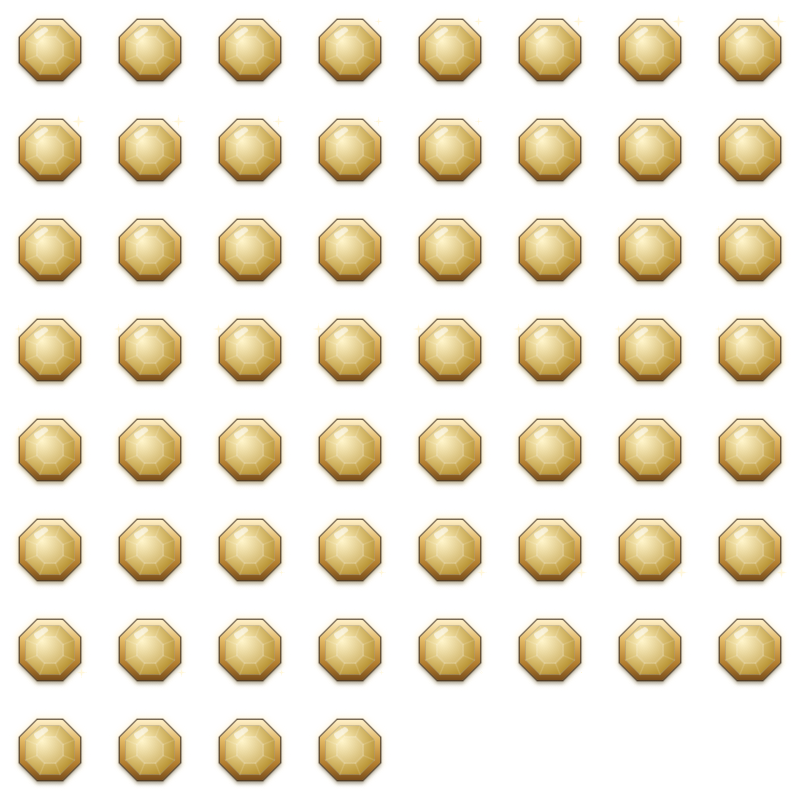
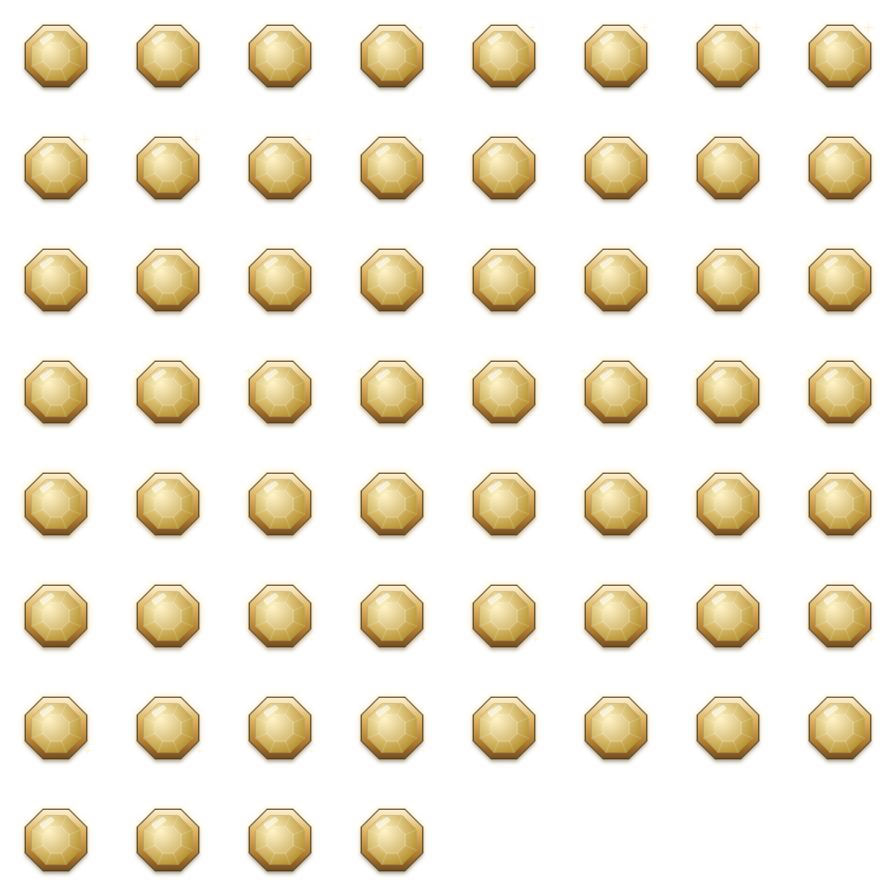
Rive state tracker: 8 px sheet padding, button-like tracker clicks, missing sheets are errors
- Sheets have 8 px of padding around every frame (was 2), so a far-off sigil's small mipmaps
  never mix in the next frame. Re-baked.
- Task tracker: a press dragged off a row or the header and let go elsewhere does nothing.
- RiveSprites: a missing manifest or sheet is an error, not a warning, so check-exe.ps1 fails a
  build that lost its sheets.
- CREDITS: the game ships the baked images only; "Animated with Rive".

Changed region(s): [[0.0, 0.0, 1.0, 1.0]]

diff --git a/scripts/README.md b/scripts/README.md
@@ -154,7 +154,8 @@ solved from the pair. The bake works on a copy of the sources taken when it star
 copy, so an edit made during a bake is neither captured nor marked as baked.
 
 A state's frames go into one PNG, `client/art/rive/<set>/<state>.png`: a grid of ceil(sqrt(frames))
-columns with 2 px of transparent padding around each frame. A new sheet gets a `.png.import`
+columns with 8 px of transparent padding around each frame, so the small mipmaps of a far-off
+sigil never mix in the next frame. A new sheet gets a `.png.import`
 (lossless, mipmaps, alpha border fixed). `client/art/rive/rive_sprites.json` describes the sheets
 and records the CLI's version and a hash of the sources:
 

diff --git a/CREDITS.md b/CREDITS.md
@@ -40,8 +40,8 @@ its doors swung open, and every icon.
 The task seals and agent sigils, the animated emblems in the task tracker, on the agent panel and
 on the homes' name plates, are vector drawings and animations written in RML in
 `art_src/rive/state_tracker/`, with no outside images or fonts. `scripts/bake-rive.mjs` renders
-them into the sprite sheets in `client/art/rive/` with the free Rive CLI, a build tool: nothing of
-Rive ships with the game.
+them into the sprite sheets in `client/art/rive/` with the free Rive CLI. The game ships those
+images only: no Rive runtime, library or `.riv` file. Animated with Rive (https://rive.app).
 
 ## Sound and music (CC0)
 

diff --git a/client/README.md b/client/README.md
@@ -321,7 +321,7 @@ There is no settings window yet: the menus and the onboarding are still to come.
 
 ## Tests
 
-GUT 9.7.1 (`addons/gut/`) runs every `tests/unit/test_*.gd` (39 files, 407 tests today) with the
+GUT 9.7.1 (`addons/gut/`) runs every `tests/unit/test_*.gd` (39 files, 413 tests today) with the
 defaults in `.gutconfig.json`. The autoloads exist in tests, but no test starts a Town Hall.
 
 | Run | Command, from the repository root |
